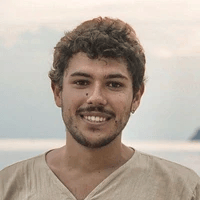
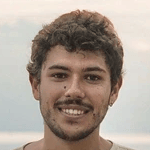
Recenter the profile photo on the face

diff --git a/layouts/home.html b/layouts/home.html
@@ -2,7 +2,7 @@
 <header class="intro">
   <div class="intro-top">
     {{- with .Params.photo }}{{ with resources.Get . }}
-    {{- $img := .Fill "192x192 Smart jpg q85" }}
+    {{- $img := .Fill "128x128 Center jpg q90" }}
     <img class="avatar" src="{{ $img.RelPermalink }}" width="64" height="64" alt="Photo of {{ site.Title }}">
     {{- end }}{{ end }}
     <div>
